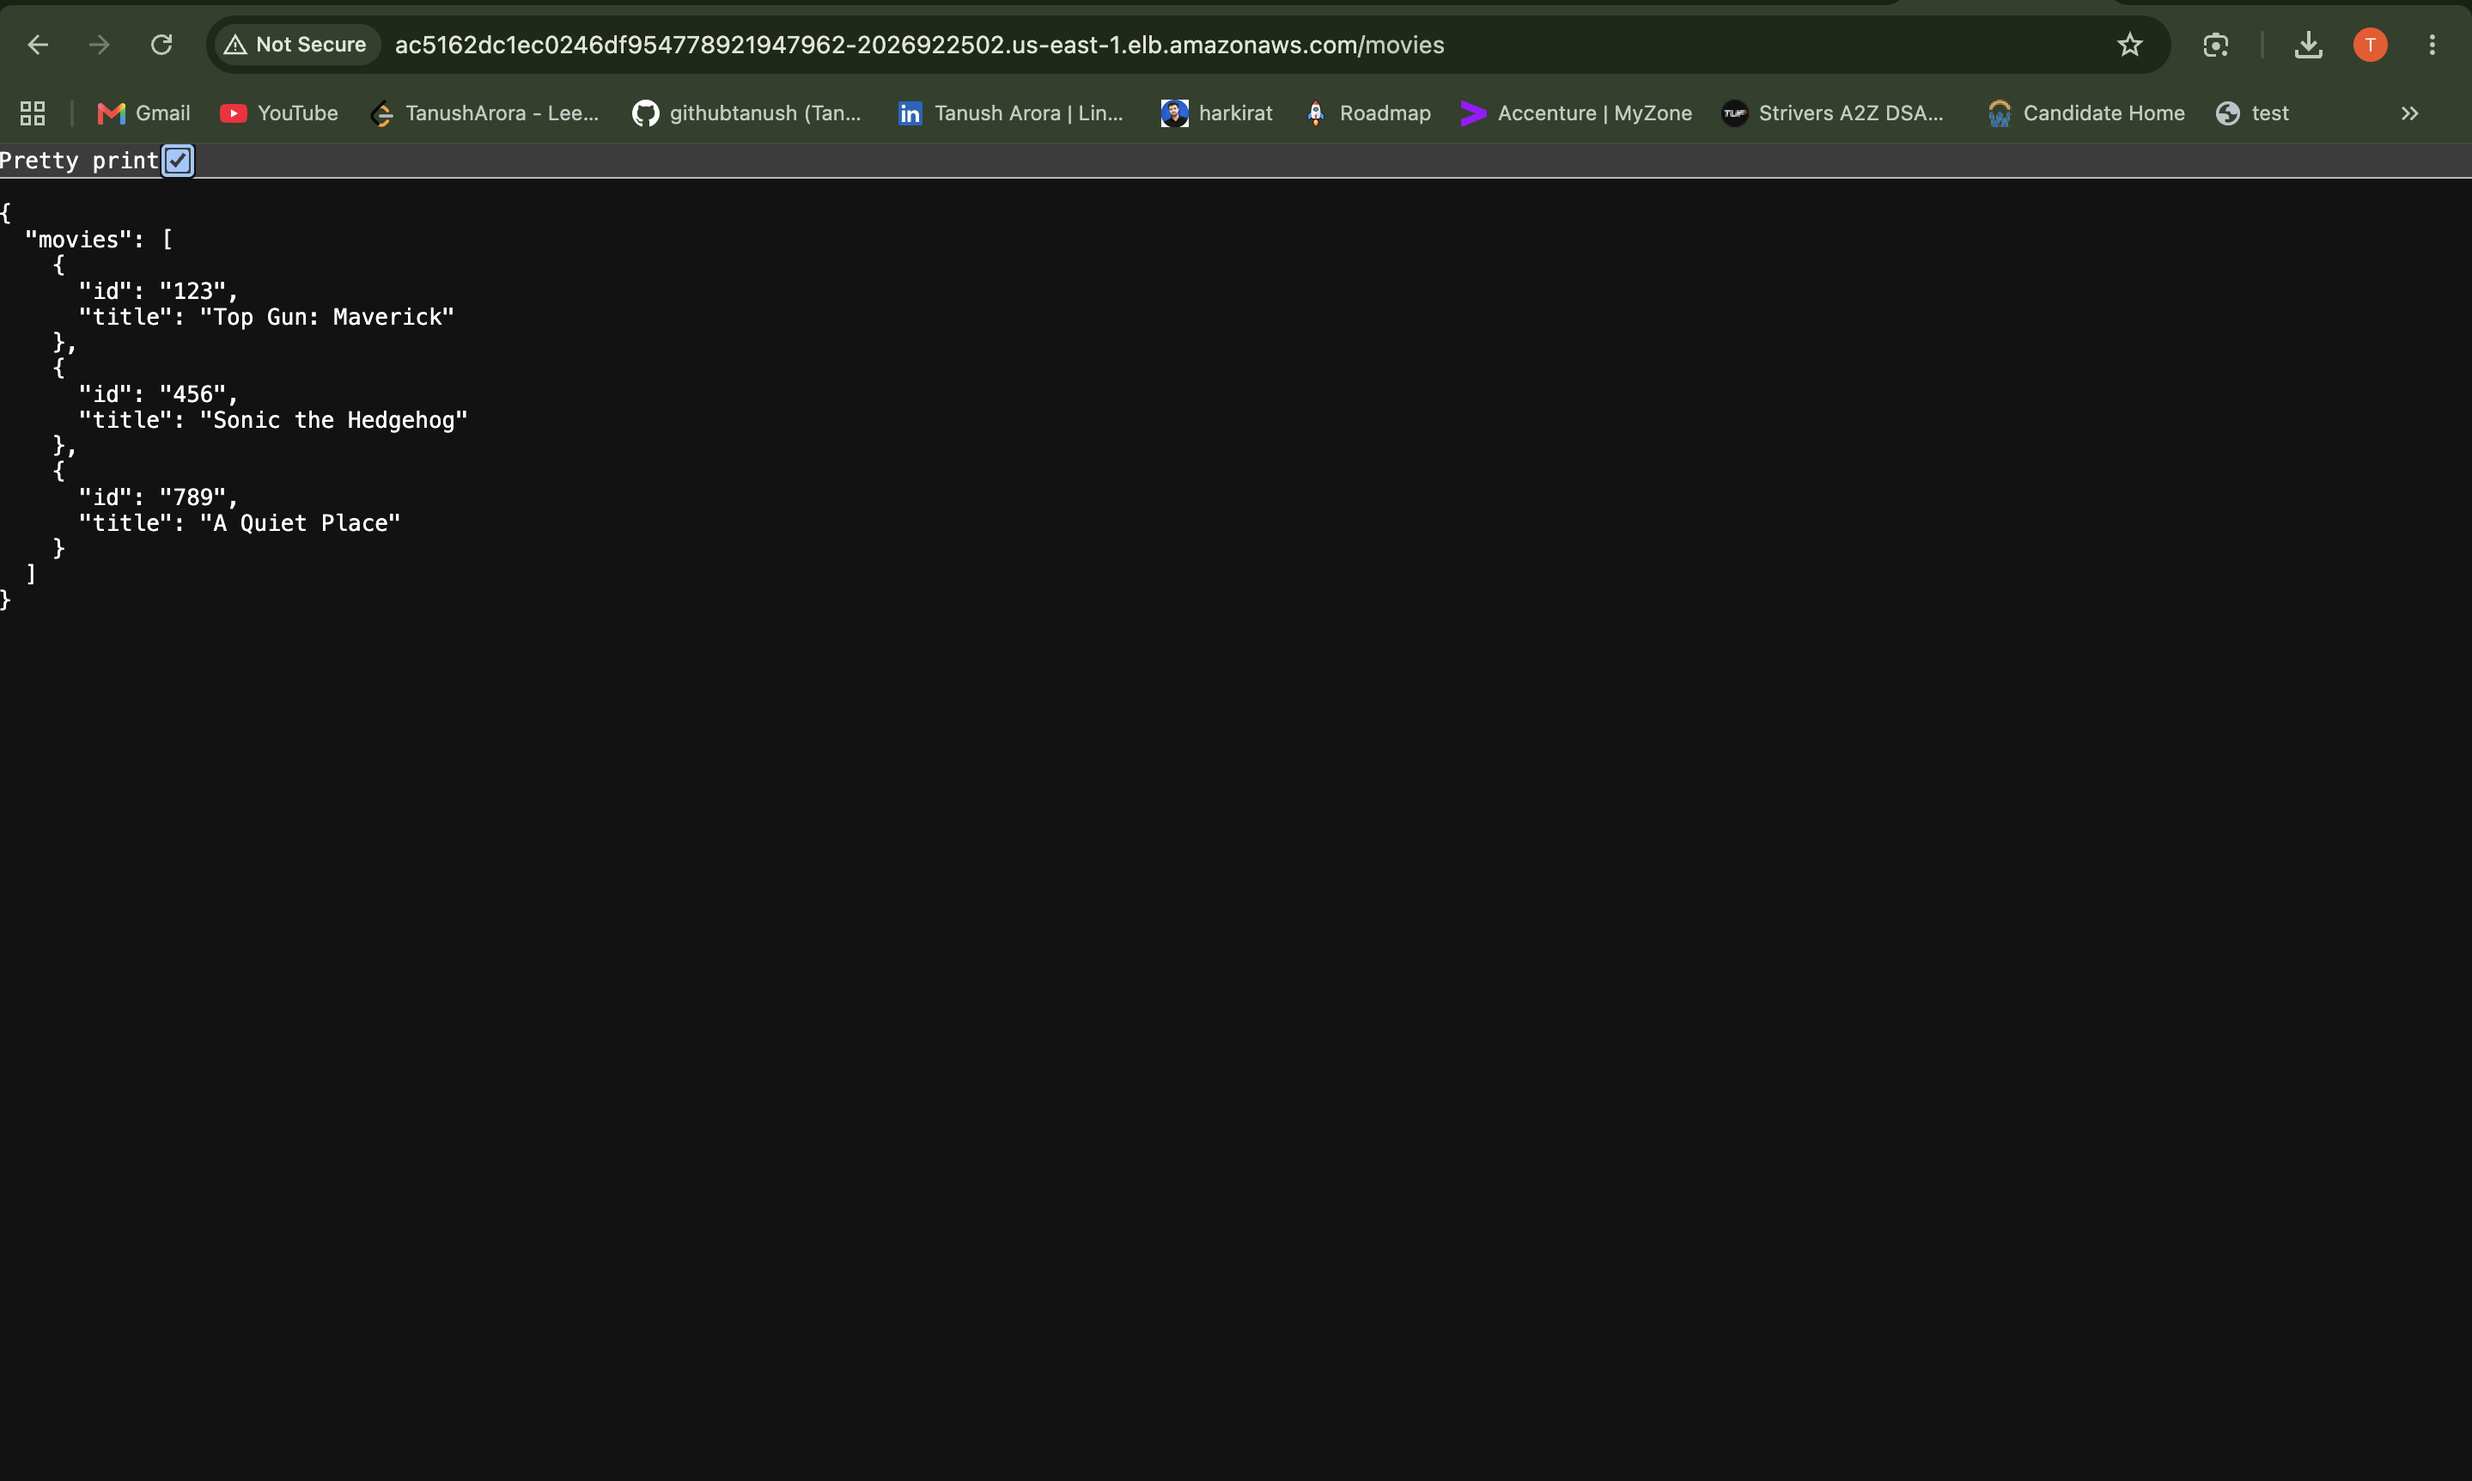
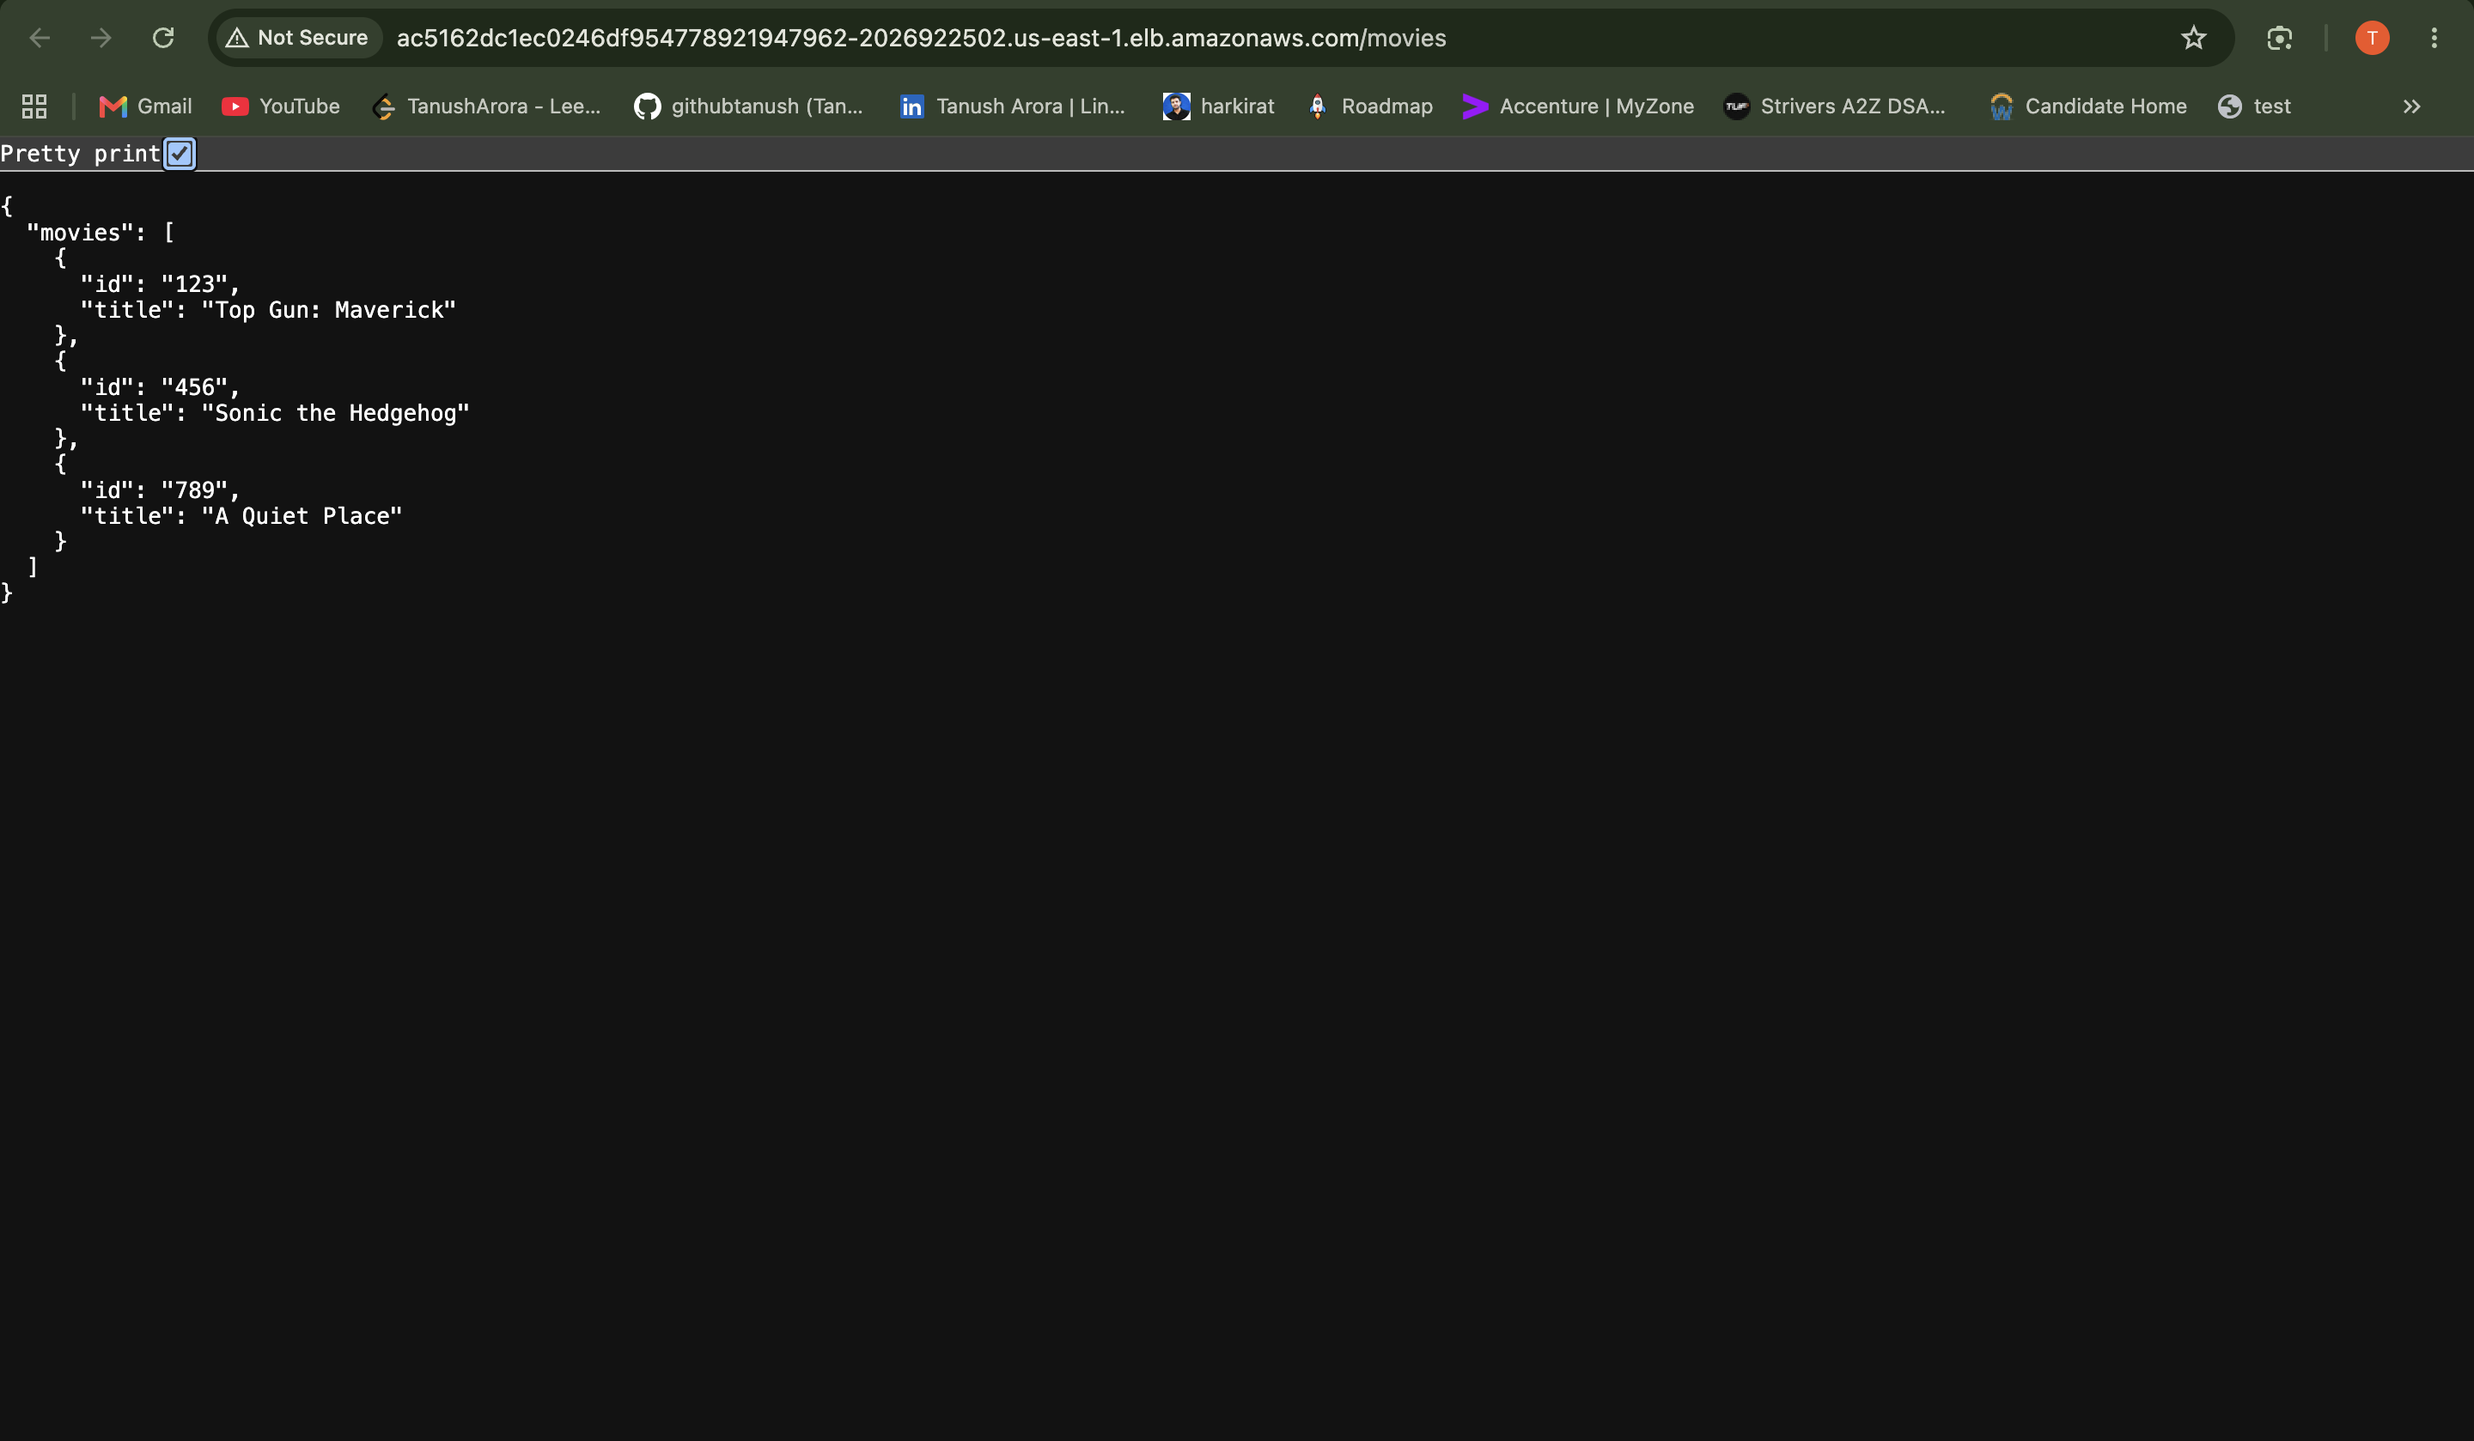
fourth commit

diff --git a/README.md b/README.md
@@ -1,65 +1,86 @@
 # Movie Picture Pipeline
 
-An automated continuous integration and continuous deployment (CI/CD) pipeline built with GitHub Actions, Docker, and Kubernetes (AWS EKS) for a microservices-based Movie Picture web application.
+An automated continuous integration and continuous deployment (CI/CD) pipeline built with GitHub Actions, Docker, Amazon ECR, and Kubernetes (AWS EKS) for a microservices-based Movie Picture web application.
 
 ---
 
-## 🌐 Live Microservice URLs
+## 🌐 Live Microservice Endpoints
 
-The application is deployed to an AWS EKS cluster with LoadBalancer services:
+The microservices are continuously deployed to an AWS EKS cluster via AWS Elastic Load Balancers:
 
-* **Frontend Web UI:** [http://a924ebd0312904a1b822a137938daa23-421438864.us-east-1.elb.amazonaws.com](http://a924ebd0312904a1b822a137938daa23-421438864.us-east-1.elb.amazonaws.com)
-* **Backend REST API:** [http://ac5162dc1ec0246df954778921947962-2026922502.us-east-1.elb.amazonaws.com/movies](http://ac5162dc1ec0246df954778921947962-2026922502.us-east-1.elb.amazonaws.com/movies)
-* **GitHub Repository:** [https://github.com/githubtanush/movie-picture-pipeline](https://github.com/githubtanush/movie-picture-pipeline)
+* **Frontend Web Application:** [http://a924ebd0312904a1b822a137938daa23-421438864.us-east-1.elb.amazonaws.com](http://a924ebd0312904a1b822a137938daa23-421438864.us-east-1.elb.amazonaws.com)
+* **Backend REST API (`/movies`):** [http://ac5162dc1ec0246df954778921947962-2026922502.us-east-1.elb.amazonaws.com/movies](http://ac5162dc1ec0246df954778921947962-2026922502.us-east-1.elb.amazonaws.com/movies)
+* **Source Repository:** [https://github.com/githubtanush/movie-picture-pipeline](https://github.com/githubtanush/movie-picture-pipeline)
 
 ---
 
-## 🏗 Architecture Overview
+## 🏗 Architecture & Tech Stack
 
-* **Frontend Application (`starter/frontend`):** React 18 & TypeScript Single Page Application served using production-ready Node/Express.
-* **Backend Application (`starter/backend`):** Python 3.10 Flask REST API served using uWSGI with full CORS enablement.
-* **Orchestration & Infrastructure:** Provisioned with Terraform on AWS EKS using Kustomize for continuous deployment.
-* **CI/CD Automation:** GitHub Actions with parallel linting, automated testing, container builds, and zero-downtime rolling updates.
+* **Frontend Application (`starter/frontend`):** React 18 and TypeScript Single Page Application served via a production Node/Express runtime.
+* **Backend REST API (`starter/backend`):** Python 3.10 Flask service served using uWSGI with enabled Cross-Origin Resource Sharing (CORS).
+* **Container Registry:** Amazon Elastic Container Registry (ECR) for backend and frontend Docker images.
+* **Cluster Orchestration:** Amazon Elastic Kubernetes Service (AWS EKS v1.31) provisioned with Terraform, leveraging Kustomize for declarative GitOps updates.
+* **CI/CD Automation:** GitHub Actions workflows executing dependency caching, linting, testing, image packaging, and zero-downtime rolling releases.
 
 ---
 
 ## 🚀 CI/CD Pipeline Implementation
 
-### 1. Frontend Workflows
-* **`frontend-ci.yaml` (Pull Requests & Manual Dispatch):**
-  * **lint:** Runs `npm run lint` with ESLint.
-  * **test:** Executes Jest unit tests in non-interactive mode (`npm test -- --watchAll=false`).
-  * **build:** Runs after `lint` and `test` pass, verifying the production bundle compiles (`npm run build`).
-* **`frontend-cd.yaml` (Push to Main Branch & Manual Dispatch):**
-  * Runs linting, testing, and Docker image builds.
-  * Dynamically injects `REACT_APP_MOVIE_API_URL` via GitHub Repository Secrets through `--build-arg`.
-  * Pushes the image to Amazon ECR tagged with the Git commit SHA and `latest`.
-  * Deploys the container using `kustomize edit set image` and rolls out the update on AWS EKS.
+### 1. Frontend Continuous Integration (`frontend-ci.yaml`)
+Triggered on pull requests targeting `main` and via `workflow_dispatch`:
+* **Lint Job:**
+  * Node.js 18 setup.
+  * **Cache Validation:** Validates and caches `~/.npm` dependencies using `actions/cache@v3` prior to installation.
+  * Dependency installation via `npm ci` followed by ESLint verification (`npm run lint`).
+* **Test Job:**
+  * Node.js 18 setup.
+  * **Cache Validation:** Validates `~/.npm` dependency cache with `actions/cache@v3`.
+  * Executes Jest test suites in non-interactive mode (`npm test -- --watchAll=false`).
+* **Build Job (requires `[lint, test]`):**
+  * Node.js 18 setup.
+  * **Cache Validation:** Validates `~/.npm` dependency cache with `actions/cache@v3`.
+  * Production bundle compilation verified via `npm run build`.
 
-### 2. Backend Workflows
-* **`backend-ci.yaml` (Pull Requests & Manual Dispatch):**
-  * **lint:** Runs `flake8` standards against all Python source files.
-  * **test:** Runs `pytest` test suites verifying JSON structure and HTTP 200 responses.
-* **`backend-cd.yaml` (Push to Main Branch & Manual Dispatch):**
-  * Executes linting and automated testing.
-  * Builds the uWSGI Python container image and pushes it to Amazon ECR.
-  * Dynamically updates the deployment manifest via Kustomize and performs a rolling release to AWS EKS.
+### 2. Backend Continuous Deployment (`backend-cd.yaml`)
+Triggered on push to `main` modifying `starter/backend/**` and via `workflow_dispatch`:
+* Executes Python code standards validation (`flake8`) and test suites (`pytest`) under Pipenv.
+* Authenticates with AWS ECR via `aws-actions/amazon-ecr-login@v1`.
+* Builds, tags, and pushes backend Docker images to Amazon ECR.
+* Updates the Kubernetes deployment image with `kustomize edit set image` and applies the manifest.
+* **Deployment Verification & Logging:**
+  * Performs rollout status verification: `kubectl rollout status deployment/backend --timeout=180s`.
+  * Emits full cluster state: `kubectl get all`.
+  * Emits deployment metadata: `kubectl describe deploy backend`.
+  * Validates ECR image details: `aws ecr describe-images --repository-name backend --image-ids imageTag=latest`.
+
+### 3. Frontend Continuous Deployment (`frontend-cd.yaml`)
+Triggered on push to `main` modifying `starter/frontend/**` and via `workflow_dispatch`:
+* Executes cached dependency installations (`actions/cache@v3`), ESLint checks, and Jest tests.
+* Builds the production Docker image with build-arg injection:
+  `--build-arg REACT_APP_MOVIE_API_URL=${{ secrets.REACT_APP_MOVIE_API_URL }}`
+* Pushes the compiled frontend container image to Amazon ECR.
+* Deploys the service to AWS EKS using Kustomize.
+* **Deployment Verification & Logging:**
+  * Verifies rollout health: `kubectl rollout status deployment/frontend --timeout=180s`.
+  * Emits full cluster state: `kubectl get all`.
+  * Emits deployment metadata: `kubectl describe deploy frontend`.
+  * Validates ECR image details: `aws ecr describe-images --repository-name frontend --image-ids imageTag=latest`.
 
 ---
 
-## 🔐 Required GitHub Repository Secrets
+## 🔐 GitHub Repository Secrets Configuration
 
-Configure these under **Settings > Secrets and variables > Actions**:
+The following repository secrets are configured under **Settings > Secrets and variables > Actions**:
 
-| Secret Name | Description / Example |
+| Secret Name | Value / Description |
 | :--- | :--- |
-| `AWS_ACCESS_KEY_ID` | Temporary or IAM User AWS Access Key |
-| `AWS_SECRET_ACCESS_KEY` | AWS Secret Access Key |
-| `AWS_SESSION_TOKEN` | AWS Session Token (for Learner Lab/Gateway sessions) |
-| `AWS_DEFAULT_REGION` | AWS Deployment Region (e.g., `us-east-1`) |
-| `EKS_CLUSTER_NAME` | Name of the provisioned EKS cluster |
-| `FRONTEND_ECR_REPO` | ECR repository name for the Frontend app |
-| `BACKEND_ECR_REPO` | ECR repository name for the Backend app |
+| `AWS_ACCESS_KEY_ID` | AWS IAM Access Key ID |
+| `AWS_SECRET_ACCESS_KEY` | AWS IAM Secret Access Key |
+| `AWS_SESSION_TOKEN` | AWS STS Session Token (for Learner Lab sessions) |
+| `AWS_DEFAULT_REGION` | `us-east-1` |
+| `EKS_CLUSTER_NAME` | `cluster` |
+| `BACKEND_ECR_REPO` | `backend` |
+| `FRONTEND_ECR_REPO` | `frontend` |
 | `REACT_APP_MOVIE_API_URL` | `http://ac5162dc1ec0246df954778921947962-2026922502.us-east-1.elb.amazonaws.com` |
 
 ---
@@ -73,29 +94,12 @@ cd starter/frontend
 # Install dependencies
 npm ci
 
-# Run linter and tests
+# Run linter & test suite
 npm run lint
 npm test -- --watchAll=false
 
-# Start development server
+# Build production bundle
+npm run build
+
+# Start local server
 REACT_APP_MOVIE_API_URL=http://localhost:5000 npm start
-cd starter/backend
-
-# Install dependencies
-pipenv install
-
-# Run linter and unit tests
-pipenv run lint
-pipenv run test
-
-# Run application locally
-pipenv run serve
-kubectl get pods -l app=backend
-kubectl get pods -l app=frontend
-kubectl get svc
-curl -i [http://ac5162dc1ec0246df954778921947962-2026922502.us-east-1.elb.amazonaws.com/movies](http://ac5162dc1ec0246df954778921947962-2026922502.us-east-1.elb.amazonaws.com/movies)
-HTTP/1.1 200 OK
-Content-Type: application/json
-Access-Control-Allow-Origin: *
-
-{"movies":[{"id":"123","title":"Top Gun: Maverick"},{"id":"456","title":"Sonic the Hedgehog"},{"id":"789","title":"A Quiet Place"}]}
